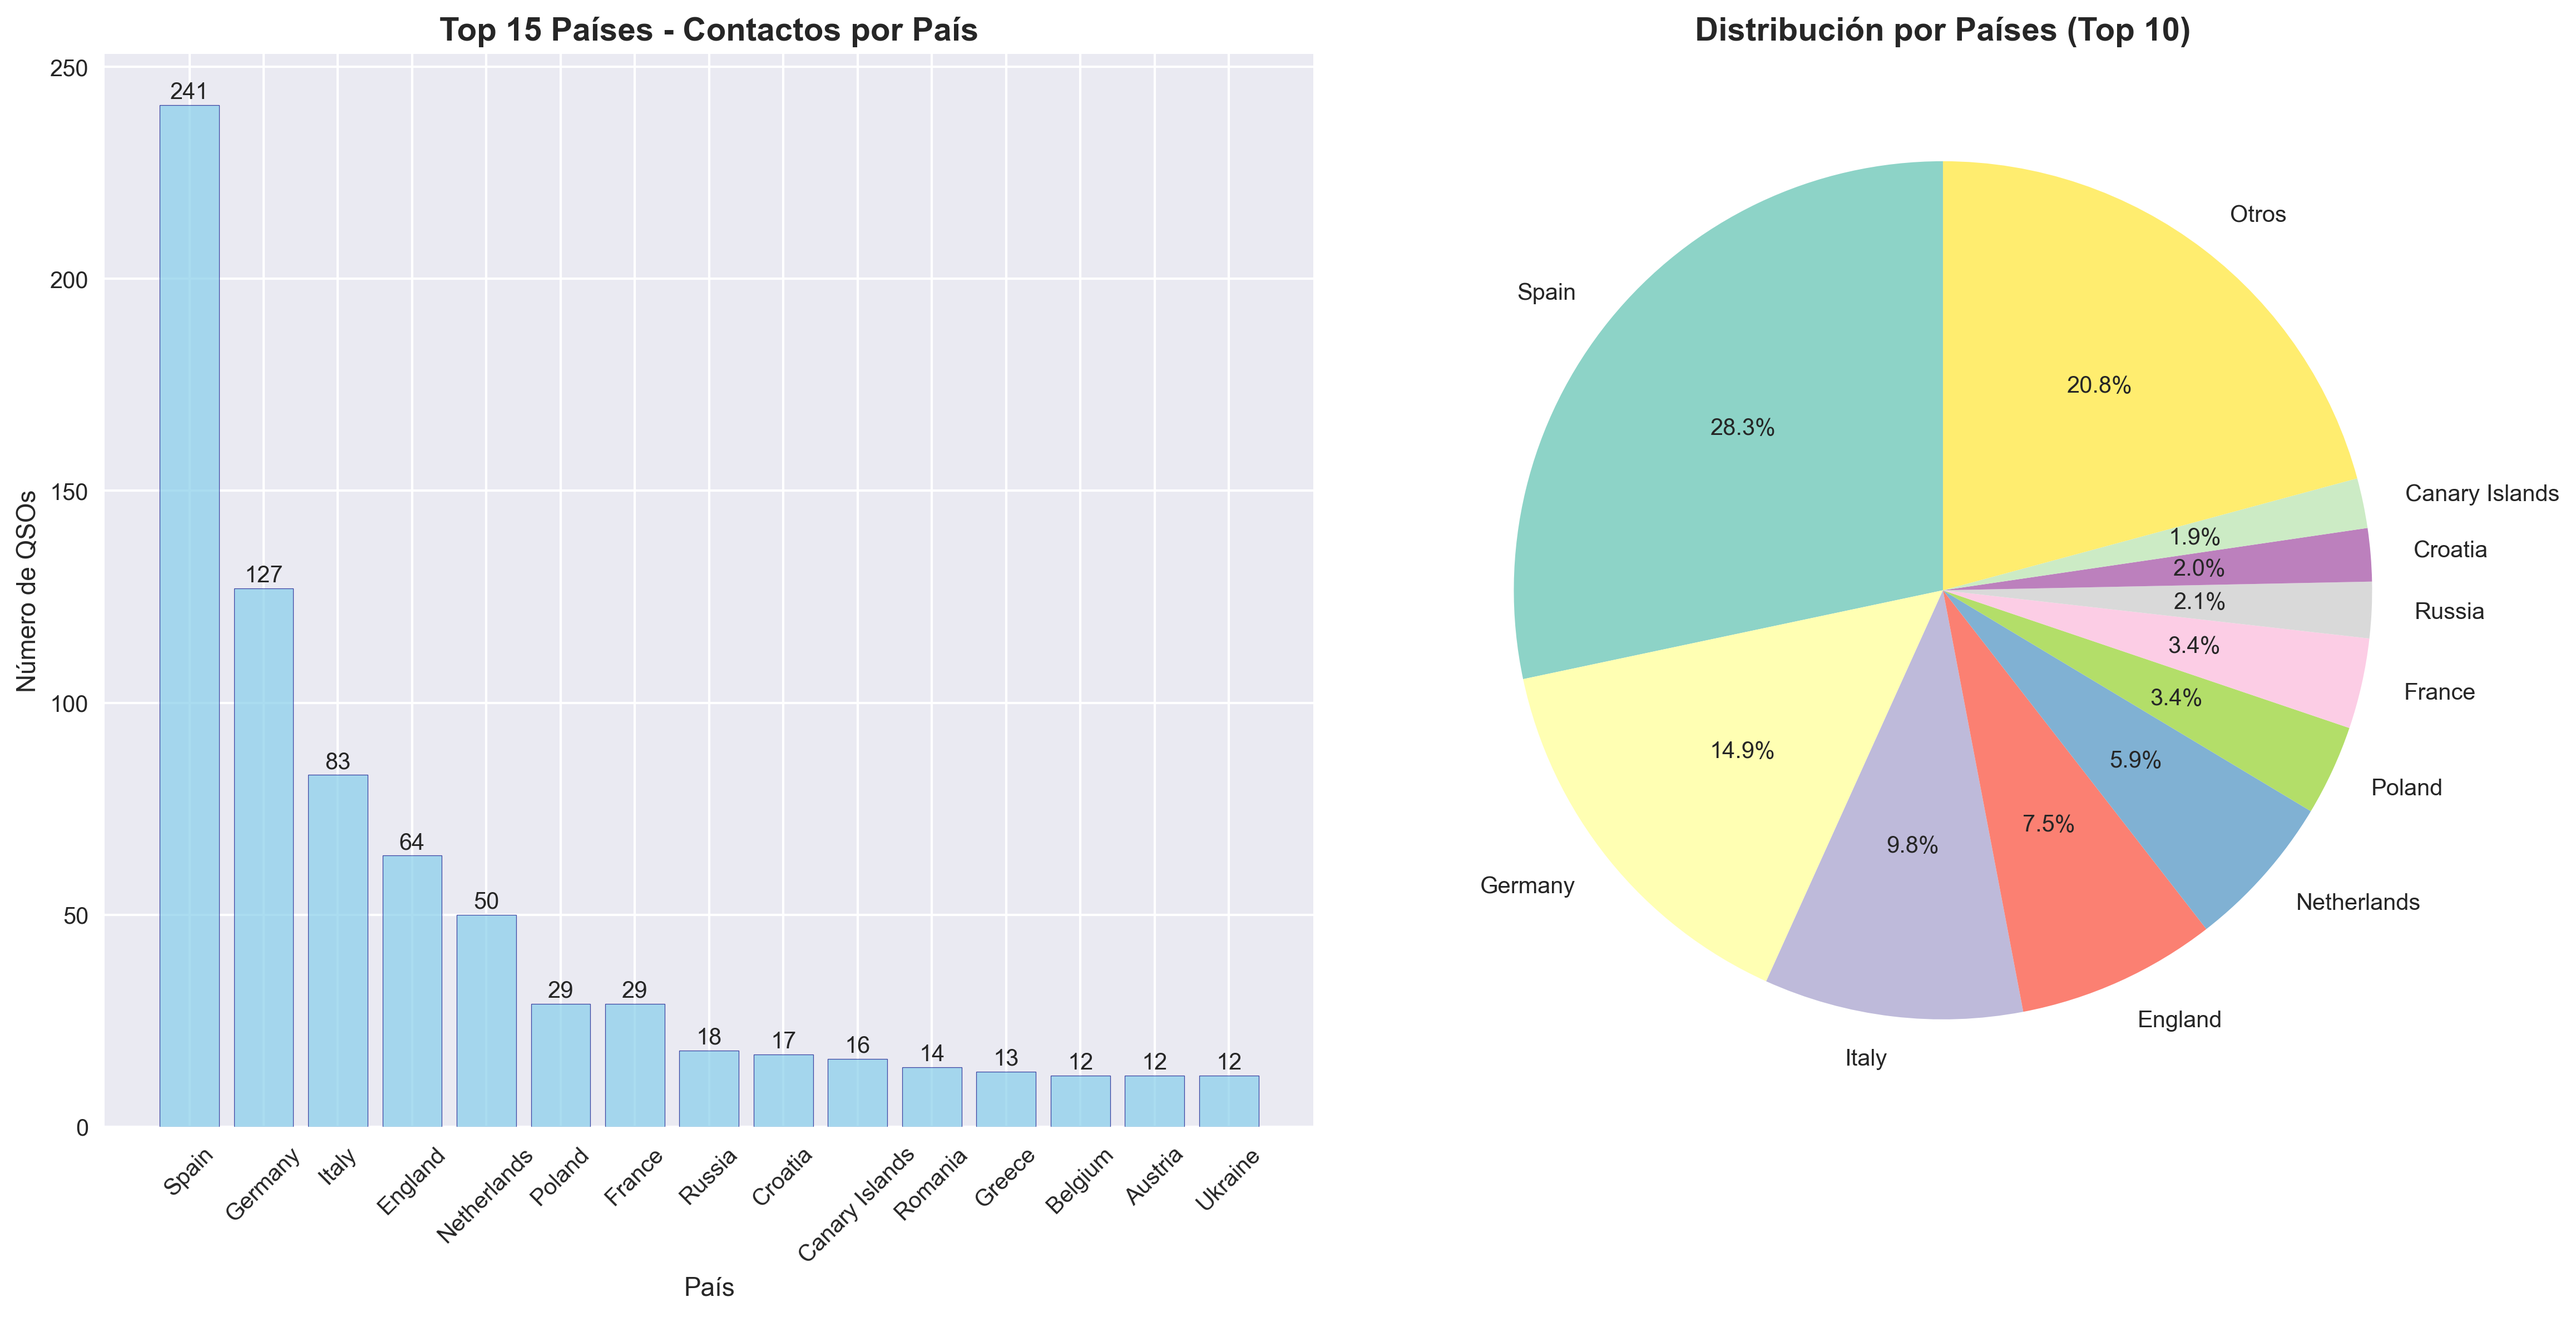
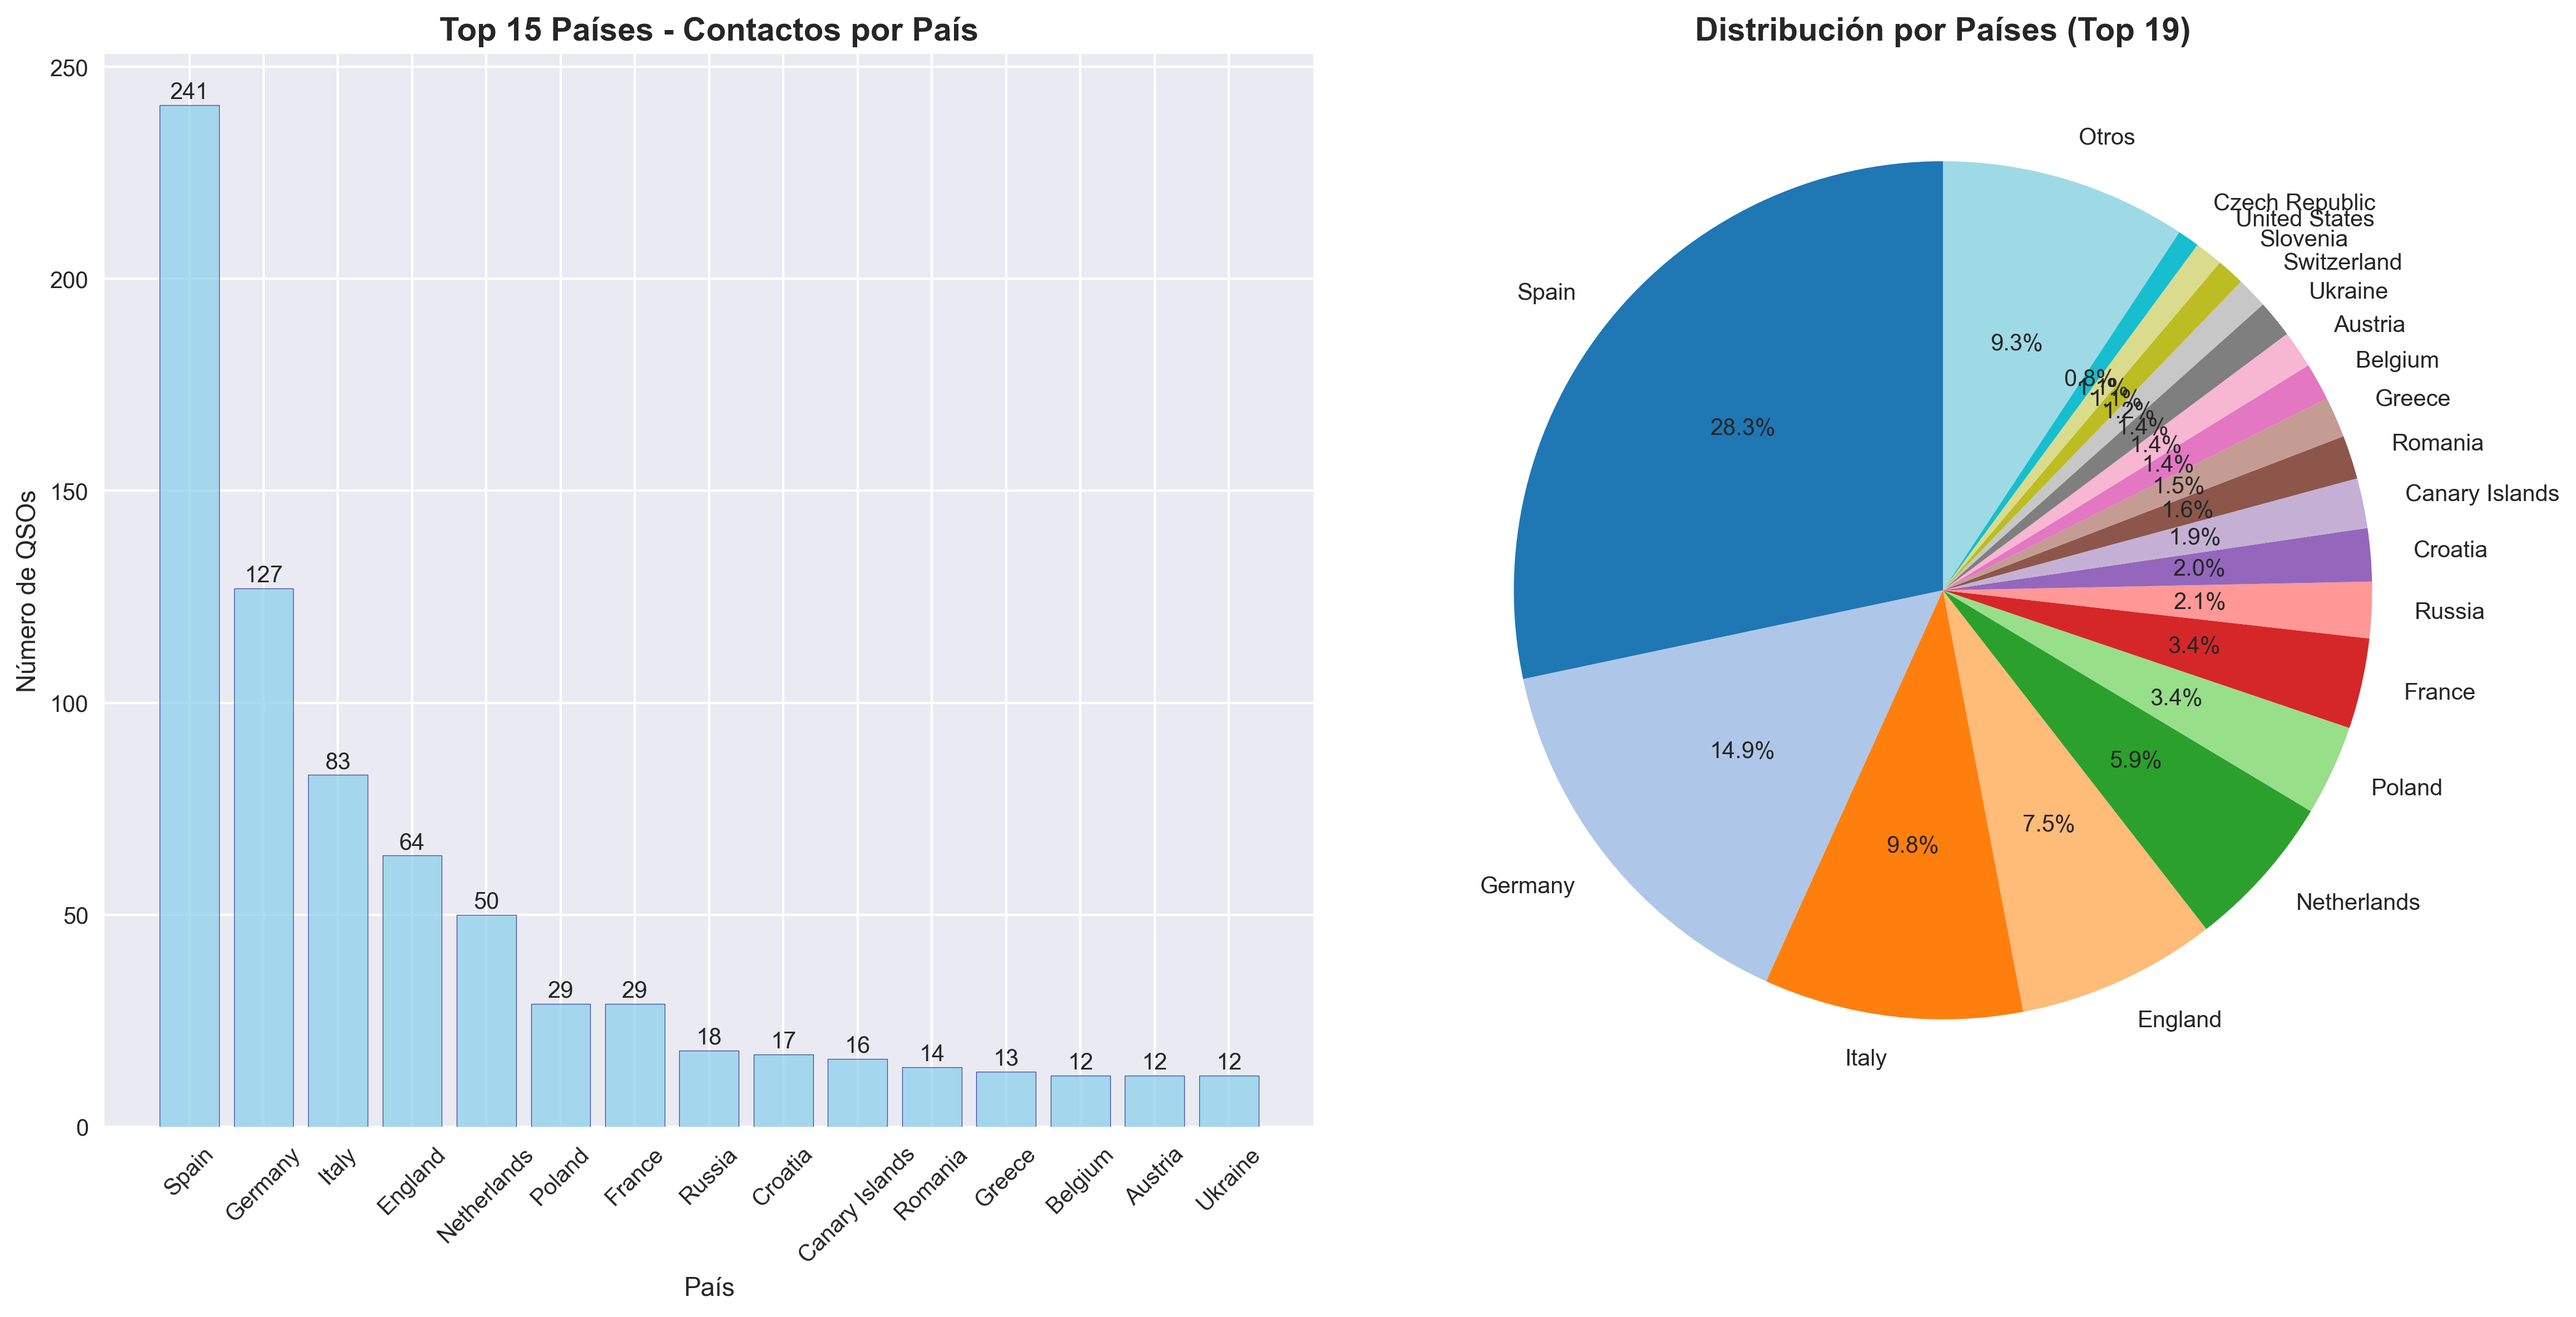
Gráfico 1: corte dinámico en pastel para que Otros < 10%

Changed region(s): [[0.5597, 0.125, 0.9639, 0.7812]]

diff --git a/analizar_adi_grafico.py b/analizar_adi_grafico.py
@@ -624,21 +624,27 @@ def create_countries_chart(countries_data, total_qsos):
         ax1.text(bar.get_x() + bar.get_width()/2., height + 0.5,
                 f'{count}', ha='center', va='bottom')
     
-    # Gráfico de pastel (top 10 + Otros)
-    top_10 = dict(list(countries_data.items())[:10])
-    others_count = sum(list(countries_data.values())[10:])
+    # Gráfico de pastel: incluir países hasta que "Otros" sea < 10%
+    all_values = list(countries_data.values())
+    total = sum(all_values)
+    cutoff = next(
+        (i for i in range(1, len(all_values)) if sum(all_values[i:]) / total < 0.10),
+        len(all_values)
+    )
+    top_n = dict(list(countries_data.items())[:cutoff])
+    others_count = sum(all_values[cutoff:])
     if others_count > 0:
-        top_10['Otros'] = others_count
-    
-    colors = plt.cm.Set3(np.linspace(0, 1, len(top_10)))
+        top_n['Otros'] = others_count
+
+    colors = plt.cm.tab20(np.linspace(0, 1, len(top_n)))
     wedges, texts, autotexts = ax2.pie(
-        top_10.values(), 
-        labels=top_10.keys(), 
-        autopct='%1.1f%%', 
-        colors=colors, 
+        top_n.values(),
+        labels=top_n.keys(),
+        autopct='%1.1f%%',
+        colors=colors,
         startangle=90
     )
-    ax2.set_title('Distribución por Países (Top 10)', fontsize=14, fontweight='bold')
+    ax2.set_title(f'Distribución por Países (Top {cutoff})', fontsize=14, fontweight='bold')
     
     plt.tight_layout()
     plt.savefig('grafico_paises.png', dpi=300, bbox_inches='tight')
